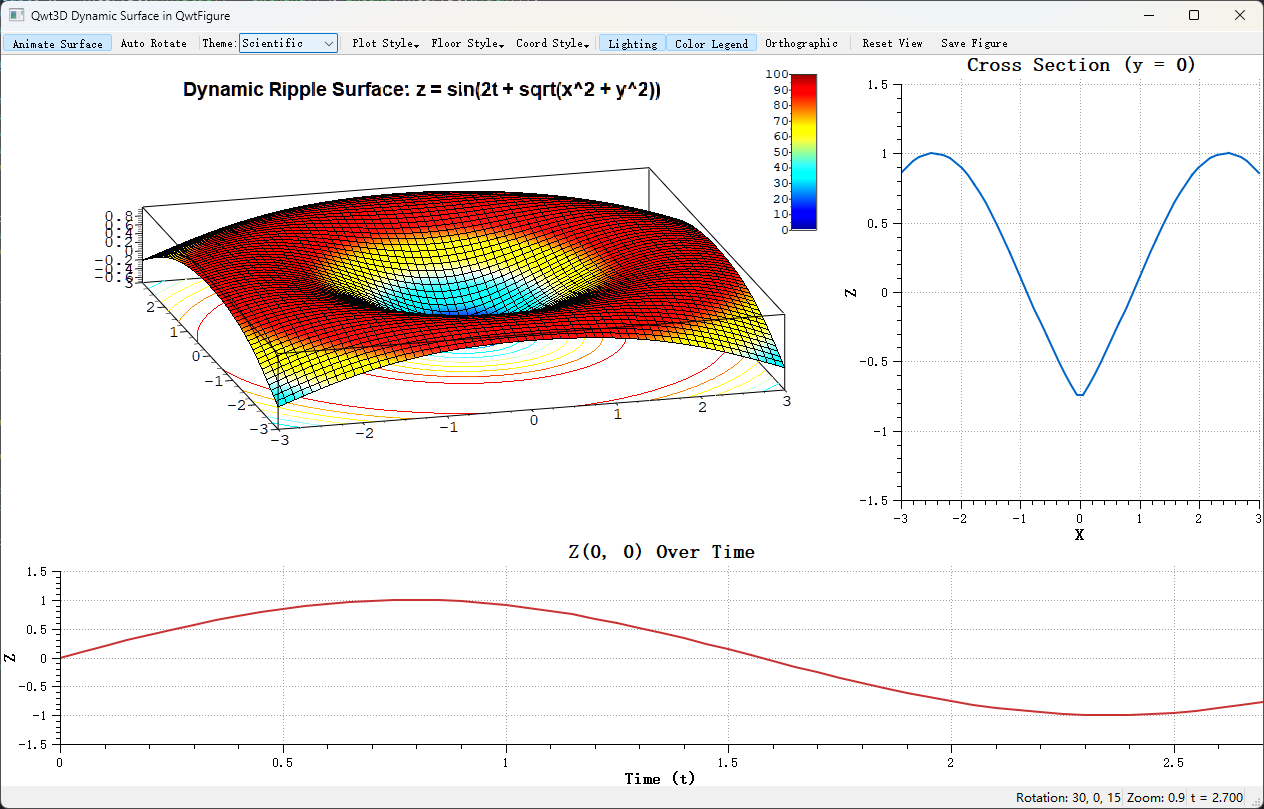
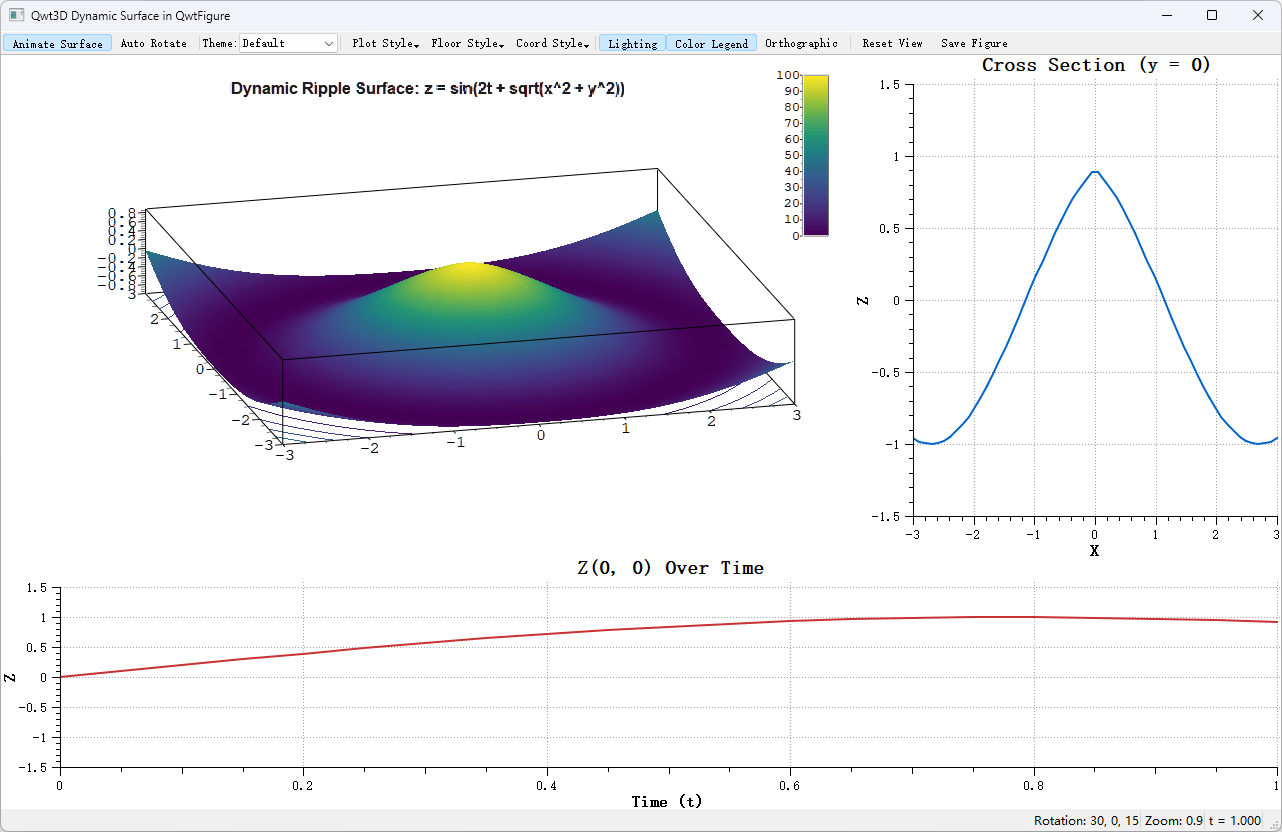
build(release): bump version to 7.3.2 and migrate 3D colormap to viridis
Update patch version from 7.3.1 to 7.3.2 in CMakeLists.txt and qwt_version_info.h.
Replace legacy blue-to-red gradient in StandardColor::reset() with viridis preset
for perceptually-uniform coloring. Change Qwt3DTheme default preset from "jet"
to "viridis" for consistency with modern visualization standards.

Refresh 3D screenshot assets to reflect updated default colormap.

diff --git a/src/plot3d/qwt3d_color.cpp b/src/plot3d/qwt3d_color.cpp
@@ -40,25 +40,14 @@ StandardColor::StandardColor(Plot3D* data, unsigned size) : QWT_PIMPL_CONSTRUCT
 StandardColor::~StandardColor() = default;
 
 /**
- * @brief Resets the color vector to a default gradient
+ * @brief Resets the color vector to the default colormap
  * @param size Number of color entries to generate
- * @details Creates a color vector of the given size with a blue-to-red gradient.
+ * @details Creates a color vector of the given size sampled from the viridis
+ *          colormap, the modern perceptually-uniform default.
  */
 void StandardColor::reset(unsigned size)
 {
-    QWT_D(d);
-    d->m_colors = ColorVector(size);
-    RGBA elem;
-
-    double dsize = size;
-
-    for (unsigned int i = 0; i != size; ++i) {
-        elem.r           = i / dsize;
-        elem.g           = i / dsize / 4;
-        elem.b           = 1 - i / dsize;
-        elem.a           = 1.0;
-        d->m_colors[ i ] = elem;
-    }
+    setPreset(QStringLiteral("viridis"), size);
 }
 
 /**

diff --git a/src/qwt_version_info.h b/src/qwt_version_info.h
@@ -24,14 +24,14 @@
  * @def Qwt numeric version MAJ.MIN.{PAT}
  */
 #ifndef QWT_VERSION_PAT
-#define QWT_VERSION_PAT 1
+#define QWT_VERSION_PAT 2
 #endif
 
 /**
  * @def Version string
  */
 #ifndef QWT_VERSION_STR
-#define QWT_VERSION_STR "7.3.1"
+#define QWT_VERSION_STR "7.3.2"
 #endif
 
 #endif // QWT_VERSION_INFO_H

diff --git a/src/plot3d/qwt3d_theme.cpp b/src/plot3d/qwt3d_theme.cpp
@@ -56,7 +56,7 @@ Qwt3DTheme Qwt3DTheme::create(Preset preset)
 
     switch (preset) {
     case Default:
-        theme.m_dataColorPreset = "jet";
+        theme.m_dataColorPreset = "viridis";
         break;
 
     case Dark: